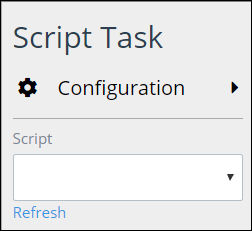
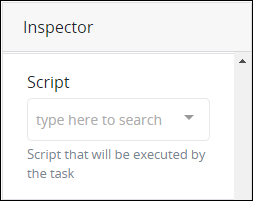
GitBook: [processmaker] 3 pages and 3 assets modified

diff --git a/designing-processes/process-design/model-your-process/add-and-configure-an-event-element.md b/designing-processes/process-design/model-your-process/add-and-configure-an-event-element.md
@@ -101,7 +101,7 @@ When a Start Event element is placed into a Process model, it is not configured 
 Follow these steps to select which ProcessMaker [user](../../../processmaker-administration/add-users/what-is-a-user.md) can start a Request via this Start Event element:
 
 1. Select the Start Event element from the Process model in which to select the ProcessMaker user that may start a Request. The **Inspector** panel displays the **Configuration** setting section.
-2. Expand the **Configuration** setting section if it is not presently expanded. The **Start Permission** drop-down menu displays.  
+2. Expand the **Configuration** setting section if it is not presently expanded, and then scroll to the **Start Permission** drop-down menu.  
 
    ![](../../../.gitbook/assets/start-permission-request-event-process-modeler-processes.png)
 
@@ -118,7 +118,7 @@ When a Start Event element is placed into a Process model, it is not configured 
 Follow these steps to select which ProcessMaker [group](../../../processmaker-administration/assign-groups-to-users/what-is-a-group.md) members can start a Request via this Start Event element:
 
 1. Select the Start Event element from the Process model in which to select the ProcessMaker group that may start a Request. The **Inspector** panel displays the **Configuration** setting section.
-2. Expand the **Configuration** setting section if it is not presently expanded. The **Start Permission** drop-down menu displays.
+2. Expand the **Configuration** setting section if it is not presently expanded, and then scroll to the **Start Permission** drop-down menu.
 
    ![](../../../.gitbook/assets/start-permission-request-event-process-modeler-processes.png)
 
@@ -150,7 +150,7 @@ When a Start Event element is placed into a Process model, Web Entry settings fo
 Follow these steps to select who can start a Request via a Web Entry URL via this Start Event element:
 
 1. Select the Start Event element from the Process model in which to select who may start a Request via a Web Entry URL.
-2. Expand the **Configuration** setting section if it is not presently expanded. The **Start Permission** drop-down menu displays. The **Inspector** panel displays the **Configuration** setting section.  
+2. Expand the **Configuration** setting section if it is not presently expanded, and then scroll to the **Start Permission** drop-down menu displays. The **Inspector** panel displays the **Configuration** setting section.  
 
    ![](../../../.gitbook/assets/web-entry-mode-start-event-process-modeler-processes.png)
 

diff --git a/designing-processes/process-design/model-your-process/add-and-configure-script-task-elements.md b/designing-processes/process-design/model-your-process/add-and-configure-script-task-elements.md
@@ -101,11 +101,11 @@ Ensure to select a ProcessMaker Script for each Script Task element in your Proc
 Follow these steps to select a ProcessMaker Script for a Script Task element:
 
 1. Select the Script Task element from the Process model in which to specify its ProcessMaker Script. The **Inspector** panel displays the **Configuration** setting section.
-2. The **Script** drop-down menu displays below the **Configuration** settings section.  
+2. Expand the **Configuration** setting section if it is not presently expanded, and then scroll to the **Script** drop-down menu.  
 
    ![](../../../.gitbook/assets/script-drop-down-script-task-process-modeler-processes.png)
 
-3. From the **Script** drop-down menu, select which ProcessMaker Script that Script Task element uses. Click the **Refresh** link below the Script drop-down menu if necessary to refresh the options in the drop-down menu.
+3. From the **Script** drop-down menu, select which ProcessMaker Script that Script Task element uses.
 
 {% hint style="warning" %}
 If no ProcessMaker Scripts exist, the **Script** drop-down menu contains no options. Ensure to select and configure a ProcessMaker Script for every Script Task element in the Process model before deploying your Process.

diff --git a/designing-processes/process-design/model-your-process/add-and-configure-intermediate-message-catch-event-elements.md b/designing-processes/process-design/model-your-process/add-and-configure-intermediate-message-catch-event-elements.md
@@ -100,7 +100,7 @@ Adding settings to the Intermediate Message Catch Event element restricts how th
 Follow these steps to configure how to trigger an Intermediate Message Catch Event element:
 
 1. Select the Intermediate Message Catch Event element from the Process model in which to edit its identifier value. The **Inspector** panel displays the **Configuration** setting section.
-2. Expand the **Configuration** setting section if it is not presently expanded. The **Message Event Identifier** field displays.  
+2. Expand the **Configuration** setting section if it is not presently expanded, and then scroll to the **Message Event Identifier** field.  
 
    ![](../../../.gitbook/assets/data-name-intermediate-message-catch-event-proces-modeler-processes.png)
 
